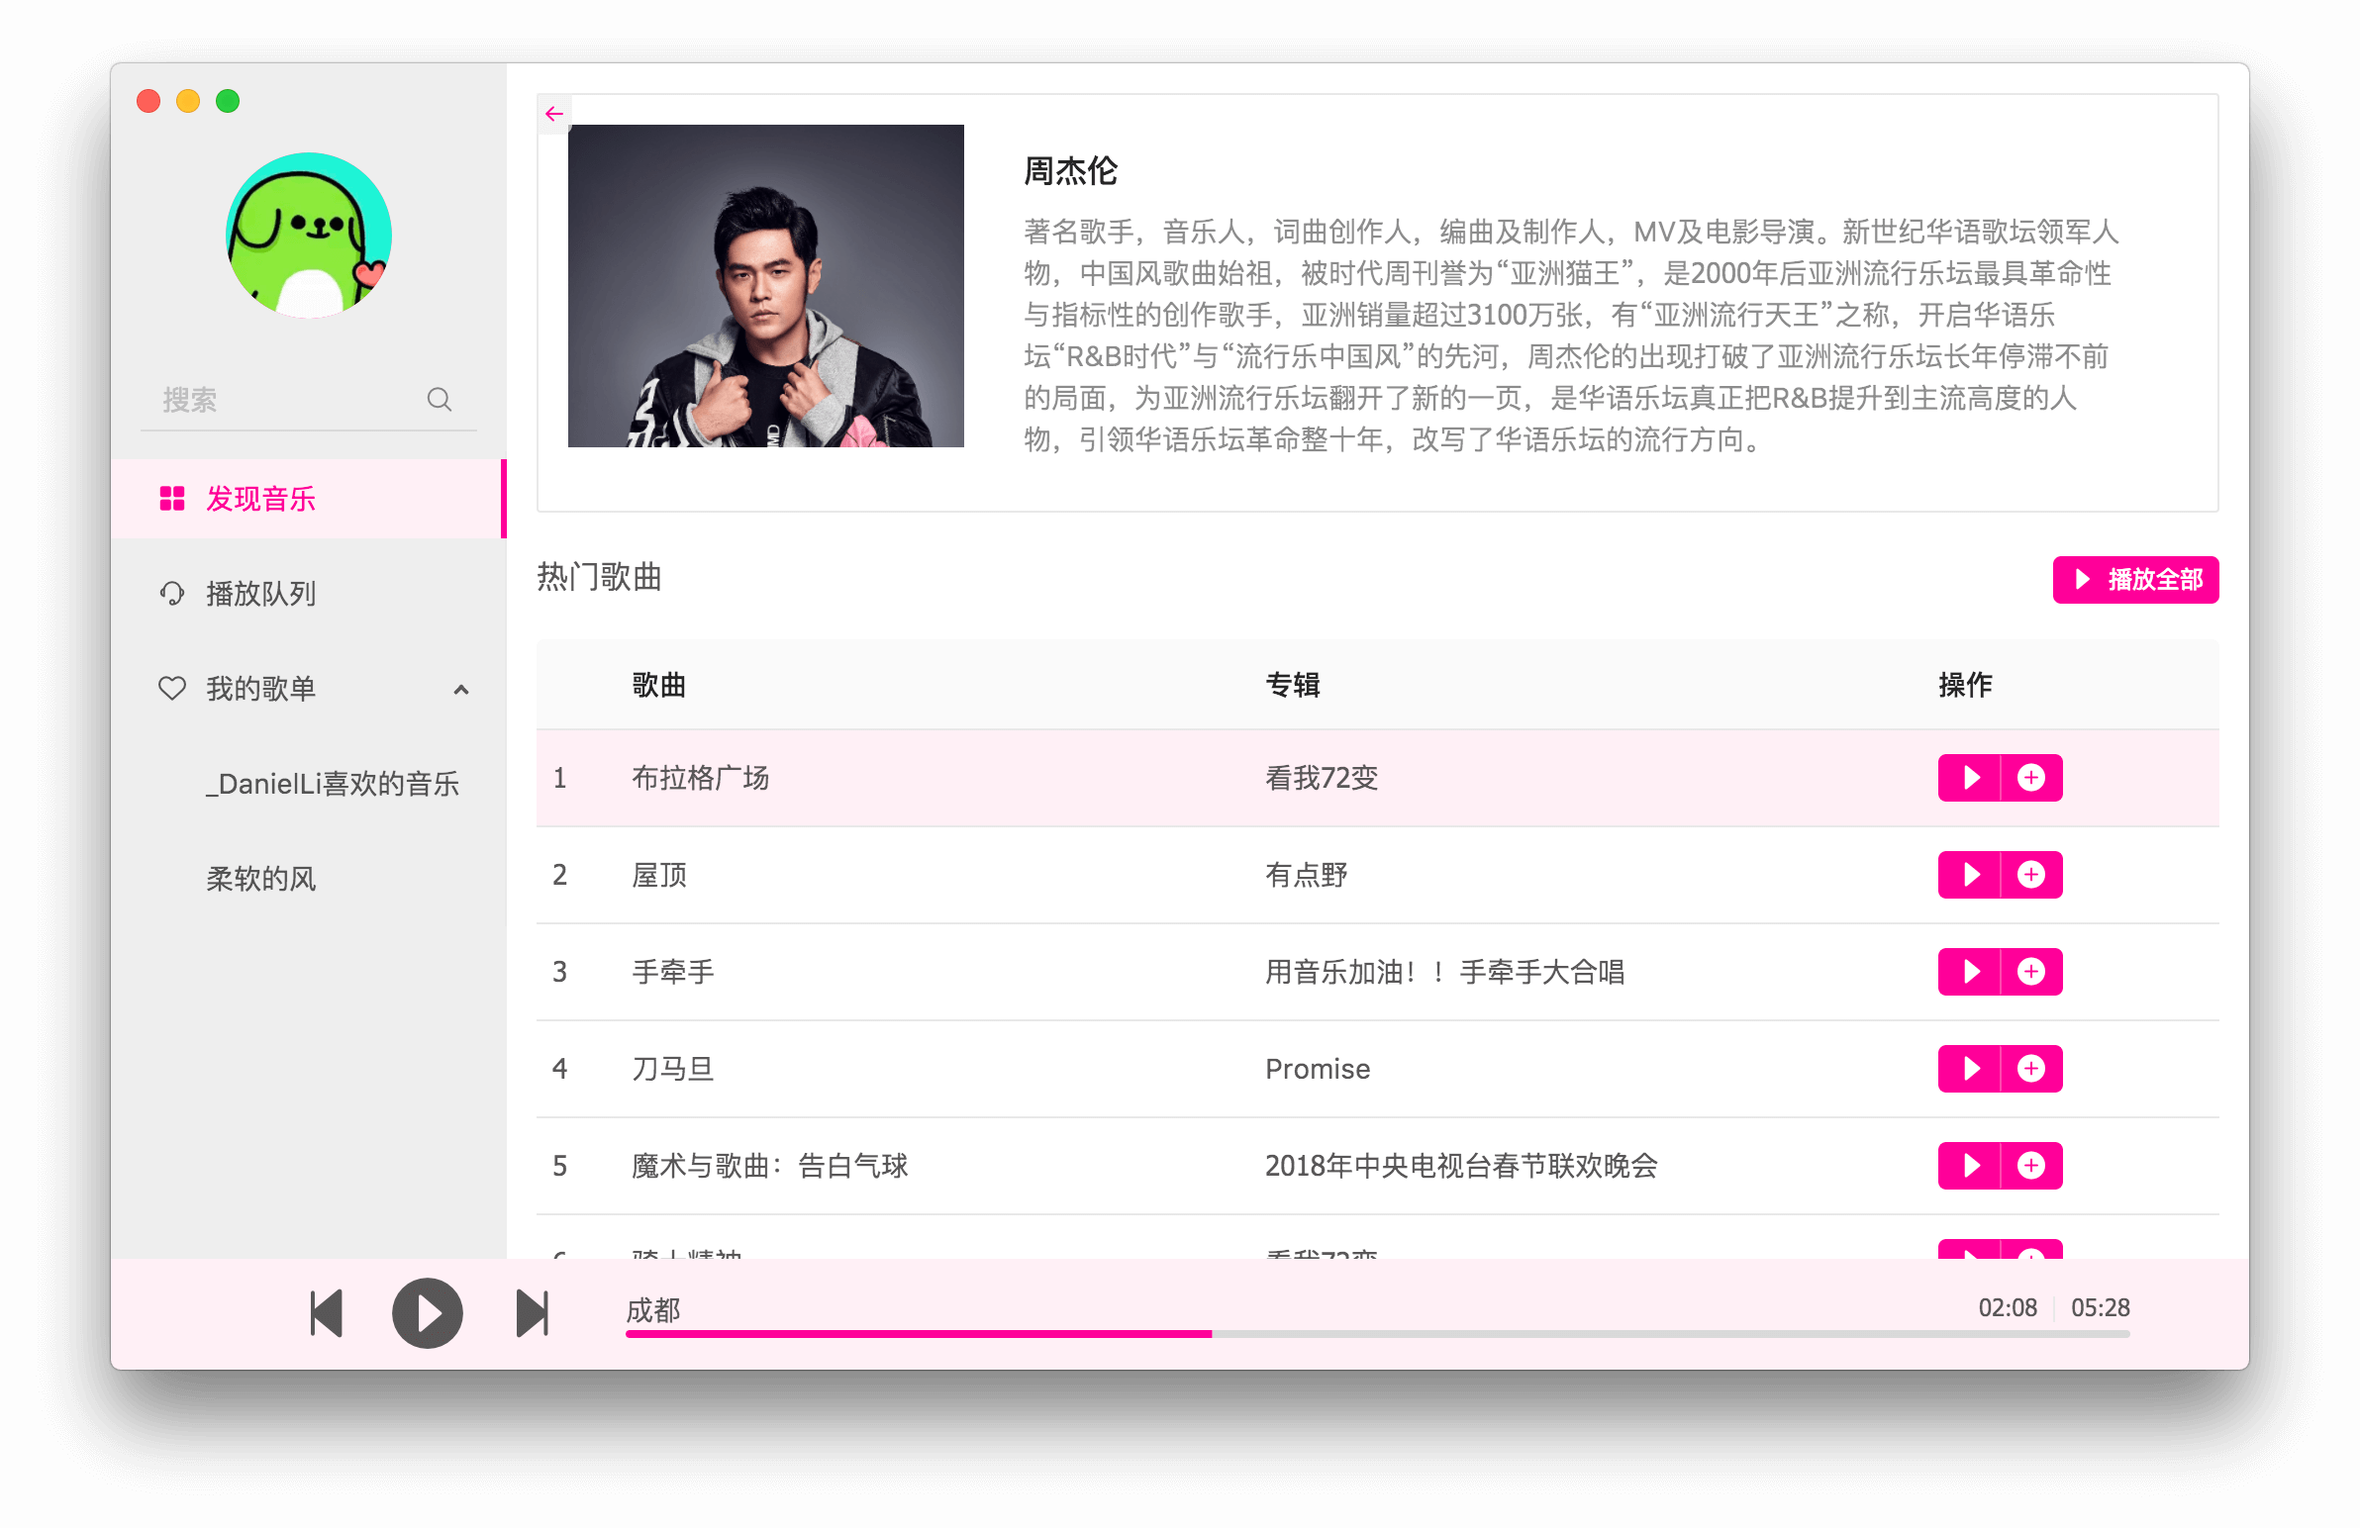
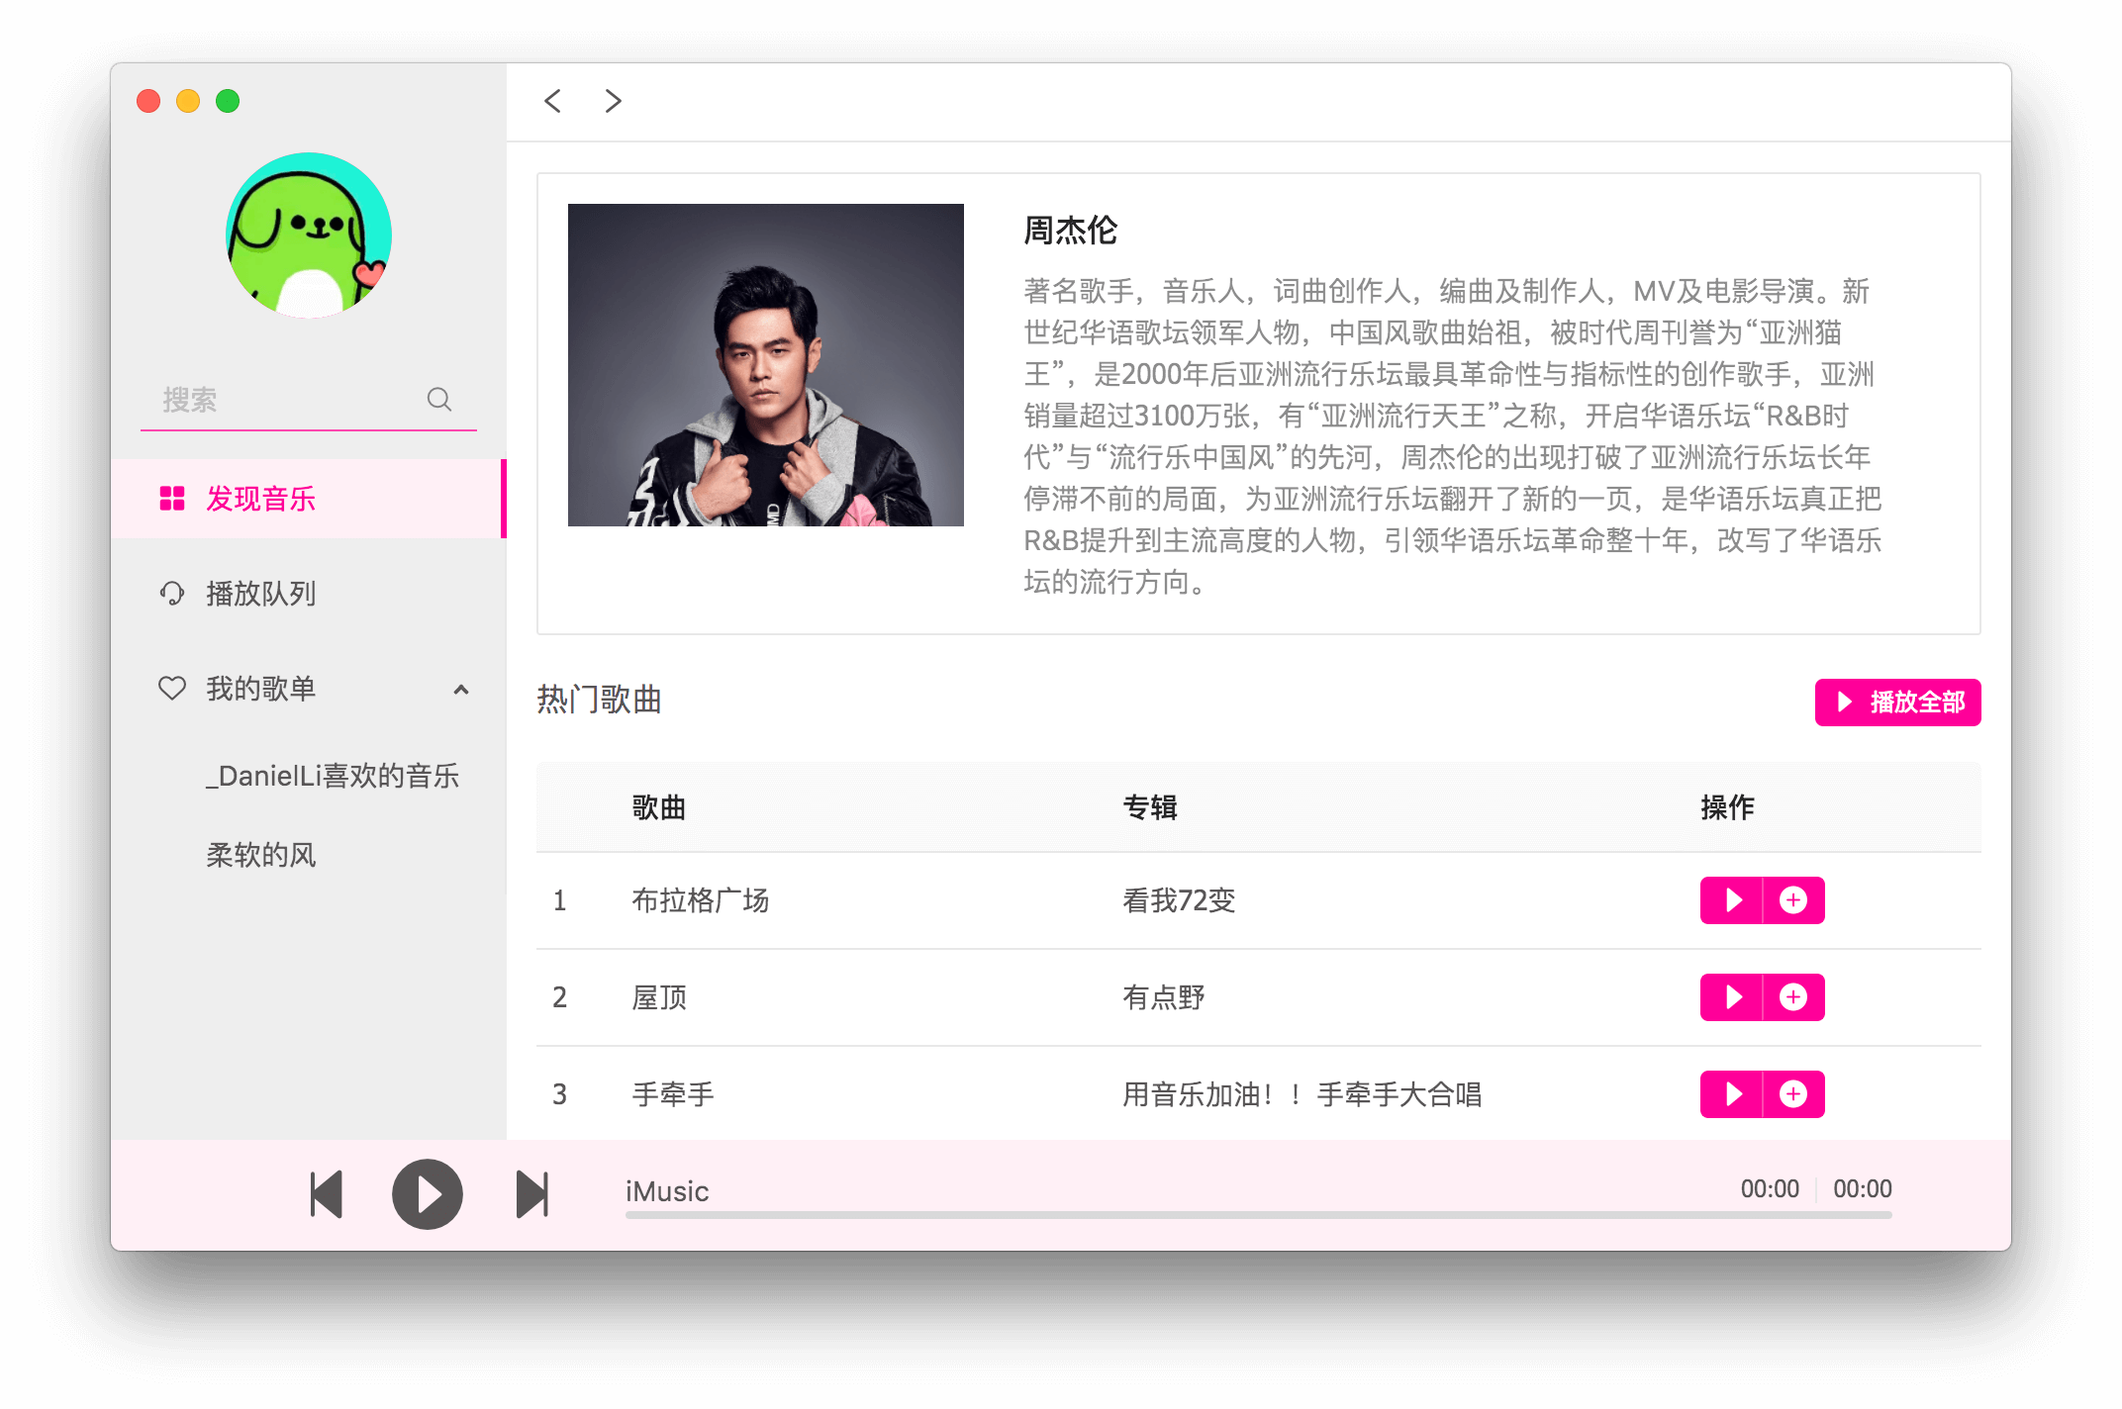
样式小调整

diff --git a/src/containers/MusicCenter/index.jsx b/src/containers/MusicCenter/index.jsx
@@ -4,6 +4,7 @@ import { Tabs } from 'antd'
 import TopArtists from '../TopArtists'
 import Songlist from '../Songlist'
 import Djprogram from '../Djprogram'
+import './index.less'
 
 const TabPane = Tabs.TabPane
 
@@ -23,7 +24,9 @@ class MusicCenter extends Component {
   render () {
     const { activeTab } = this.state
     return <Tabs
-      defaultActiveKey={this.state.activeTab} onChange={this.handleTabChange}>
+      className="music-center"
+      defaultActiveKey={this.state.activeTab}
+      onChange={this.handleTabChange}>
       <TabPane tab="热门歌手" key="topArtists">
         <TopArtists isActive={activeTab === 'topArtists'} />
       </TabPane>

diff --git a/main.js b/main.js
@@ -19,9 +19,9 @@ var win
 const createMainWindow = () => {
   // 创建浏览器窗口
   win = new BrowserWindow({
-    width: 1080,
+    width: 960,
     minWidth: 800,
-    height: 660,
+    height: 600,
     minHeight: 500,
     frame: false,
     titleBarStyle: 'hiddenInset'

diff --git a/src/containers/ListHoc/index.less b/src/containers/ListHoc/index.less
@@ -22,8 +22,8 @@
   }
   .ant-list-item-meta-description {
     margin: 0 auto;
-    width: 100px;
-    height: 100px; 
+    width: 84px;
+    height: 84px; 
     border-radius: 50%;
     overflow: hidden;
     img {

diff --git a/src/containers/ArtistDetail/index.less b/src/containers/ArtistDetail/index.less
@@ -11,7 +11,7 @@
   }
   .ant-card-body {
     flex: 1;
-    padding: 15px 30px;
+    padding: 5px 30px;
   }
   .table-title {
     font-size: 16px;

diff --git a/src/containers/App/index.less b/src/containers/App/index.less
@@ -11,6 +11,7 @@
   &-content {
     padding: 15px;
     background-color: #fff;
+    overflow: auto;
   }
   &-footer {
     position: relative;

diff --git a/src/containers/Sidebar/index.less b/src/containers/Sidebar/index.less
@@ -14,5 +14,8 @@
   }
   .ant-menu {
     background-color: transparent;
+    &.ant-menu-sub > .ant-menu-item {
+      margin: 0;
+    }
   }
 }

diff --git a/src/containers/MusicCenter/index.less b/src/containers/MusicCenter/index.less
@@ -1,0 +1,3 @@
+.music-center {
+  margin-top: -15px;
+}
